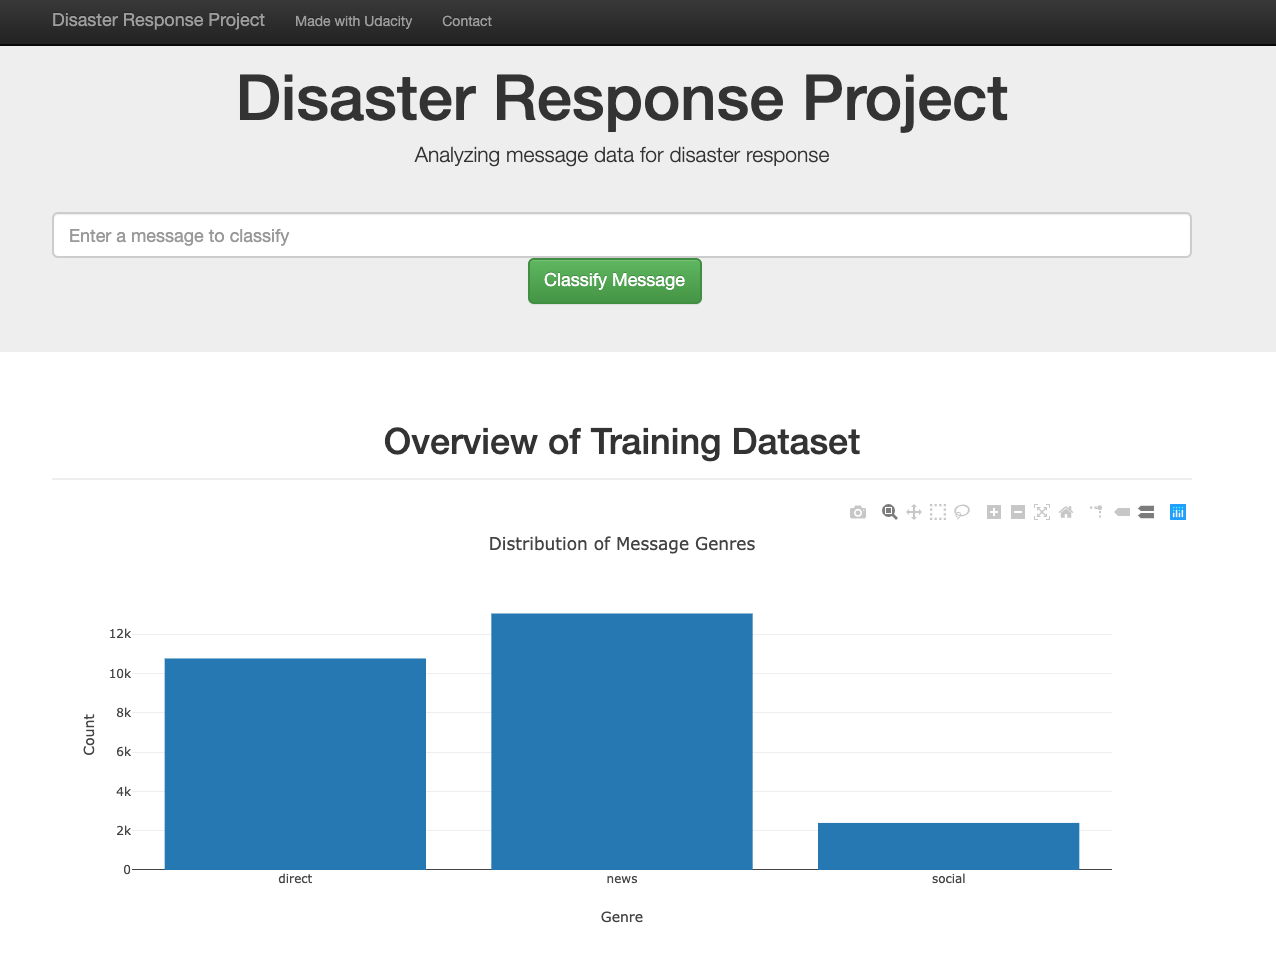
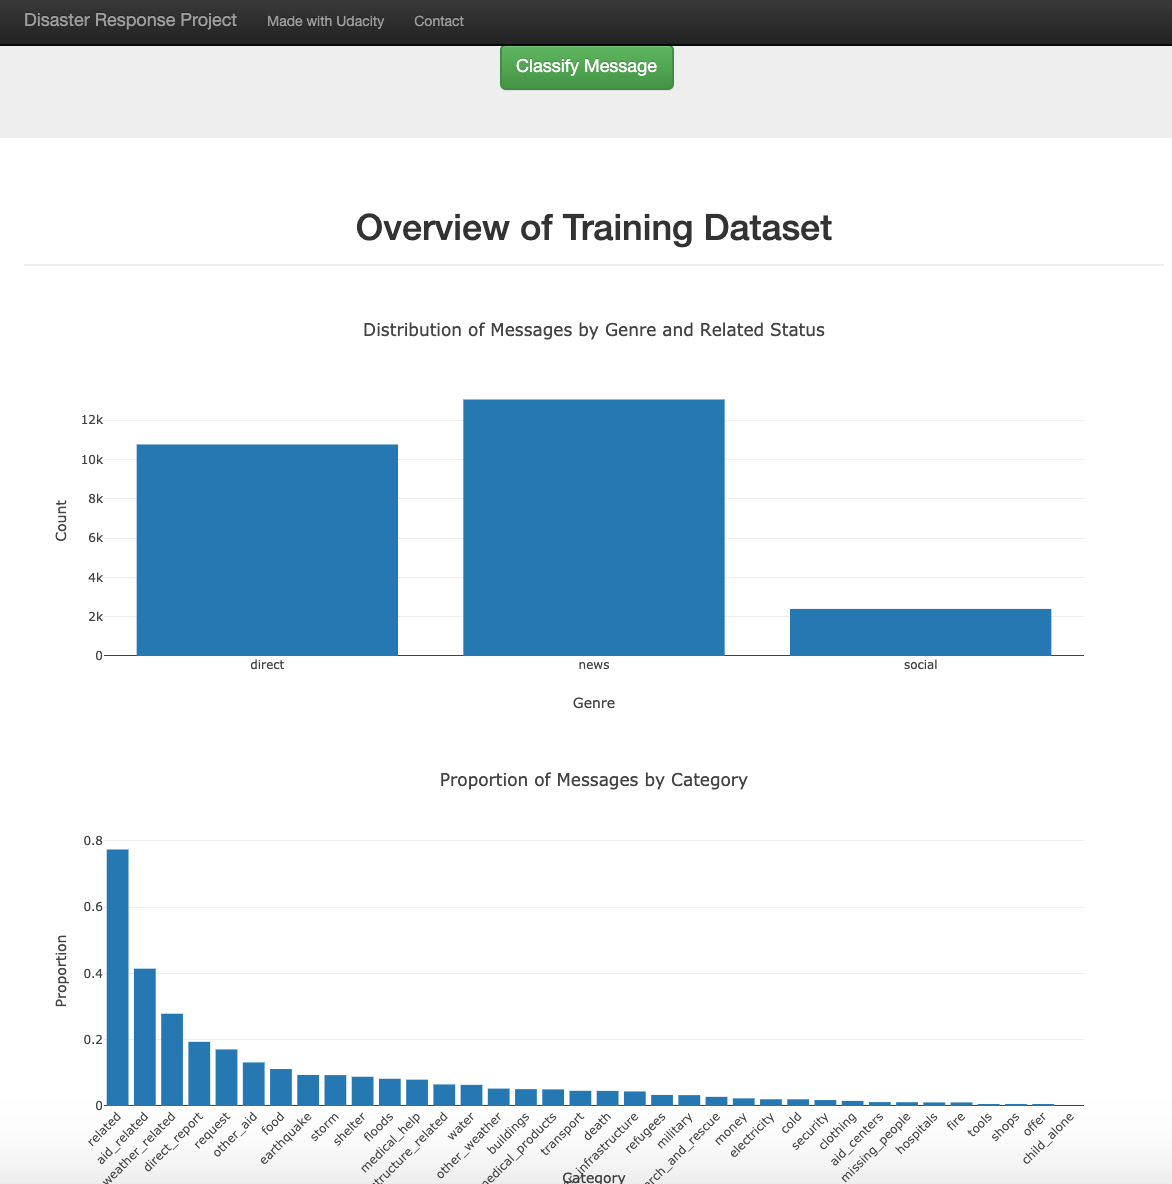
Disaster Response Pipelines

diff --git a/Disaster_Response_Pipeline/app/run.py b/Disaster_Response_Pipeline/app/run.py
@@ -27,7 +27,7 @@ def tokenize(text):
 
 # load data
 engine = create_engine('sqlite:///../data/DisasterResponse.db')
-#df = pd.read_sql_table('YourTableName', engine)
+#df = pd.read_sql_table('DisasterResponse', engine)
 df = pd.read_sql('SELECT * FROM Response', engine)
 # load model
 model = joblib.load("../models/classifier.pkl")
@@ -43,7 +43,13 @@ def index():
     genre_counts = df.groupby('genre').count()['message']
     genre_names = list(genre_counts.index)
     
+    # Calculate proportion of each category with label = 1
+    cat_props = df.drop(['id', 'message', 'original', 'genre'], axis = 1).sum()/len(df)
+    cat_props = cat_props.sort_values(ascending = False)
+    cat_names = list(cat_props.index)  
+    
     # create visuals
+    
     # TODO: Below is an example - modify to create your own visuals
     graphs = [
         {
@@ -55,16 +61,36 @@ def index():
             ],
 
             'layout': {
-                'title': 'Distribution of Message Genres',
+                'title': 'Distribution of Messages by Genre and Related Status',
                 'yaxis': {
                     'title': "Count"
                 },
                 'xaxis': {
                     'title': "Genre"
+                },
+                'barmode': 'group'
+            }
+        },
+        {
+            'data': [
+                Bar(
+                    x=cat_names,
+                    y=cat_props
+                )
+            ],
+
+            'layout': {
+                'title': 'Proportion of Messages by Category',
+                'yaxis': {
+                    'title': "Proportion"
+                },
+                'xaxis': {
+                    'title': "Category",
+                    'tickangle': -45
                 }
             }
         }
-    ]
+    ]    
     
     # encode plotly graphs in JSON
     ids = ["graph-{}".format(i) for i, _ in enumerate(graphs)]
